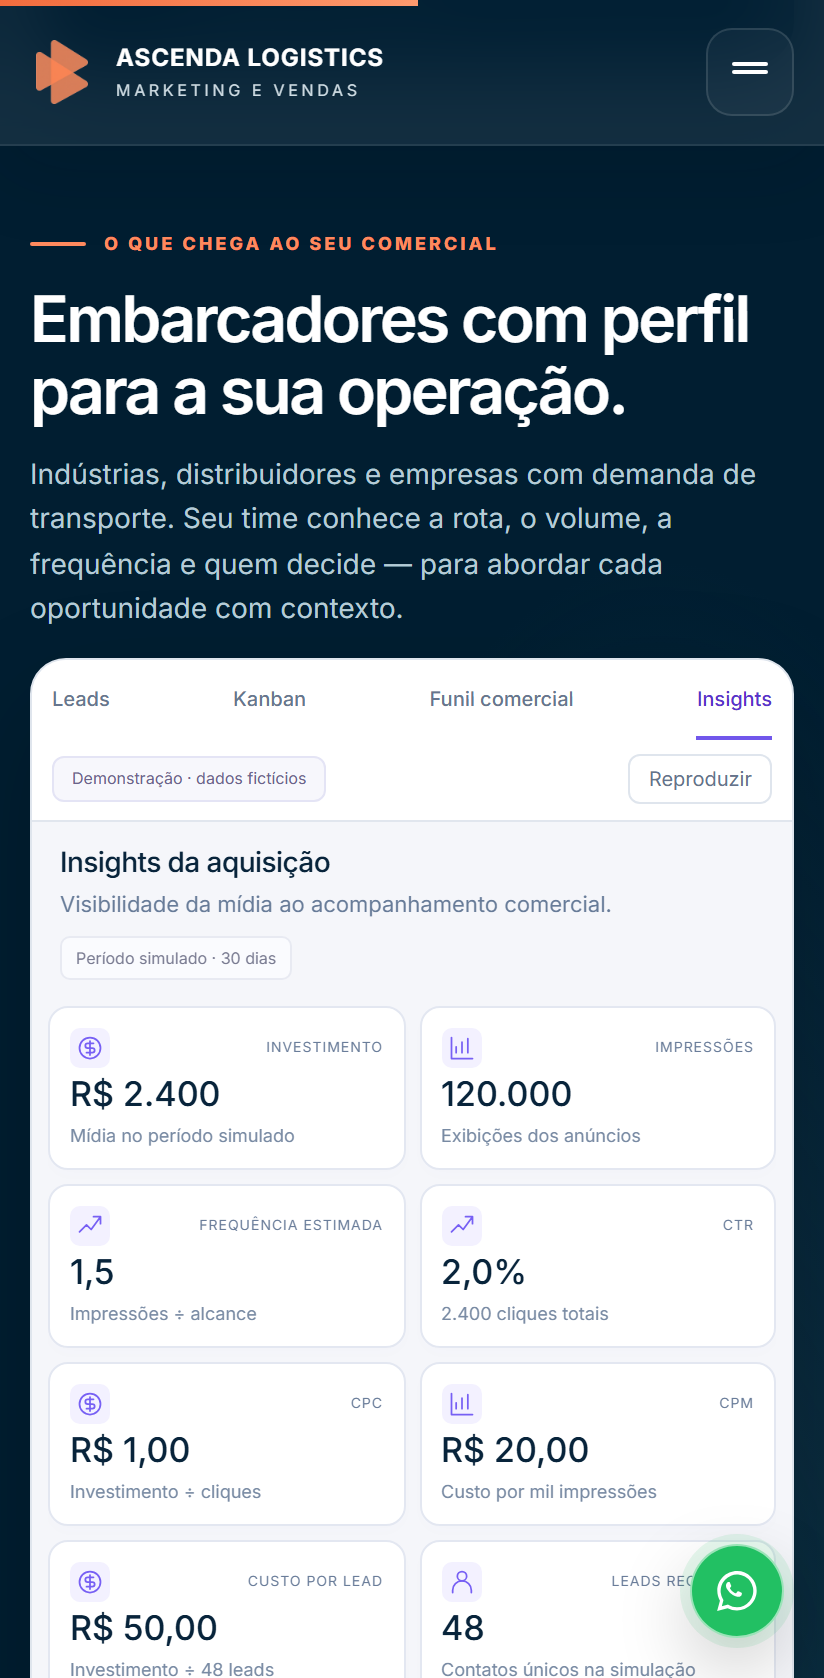
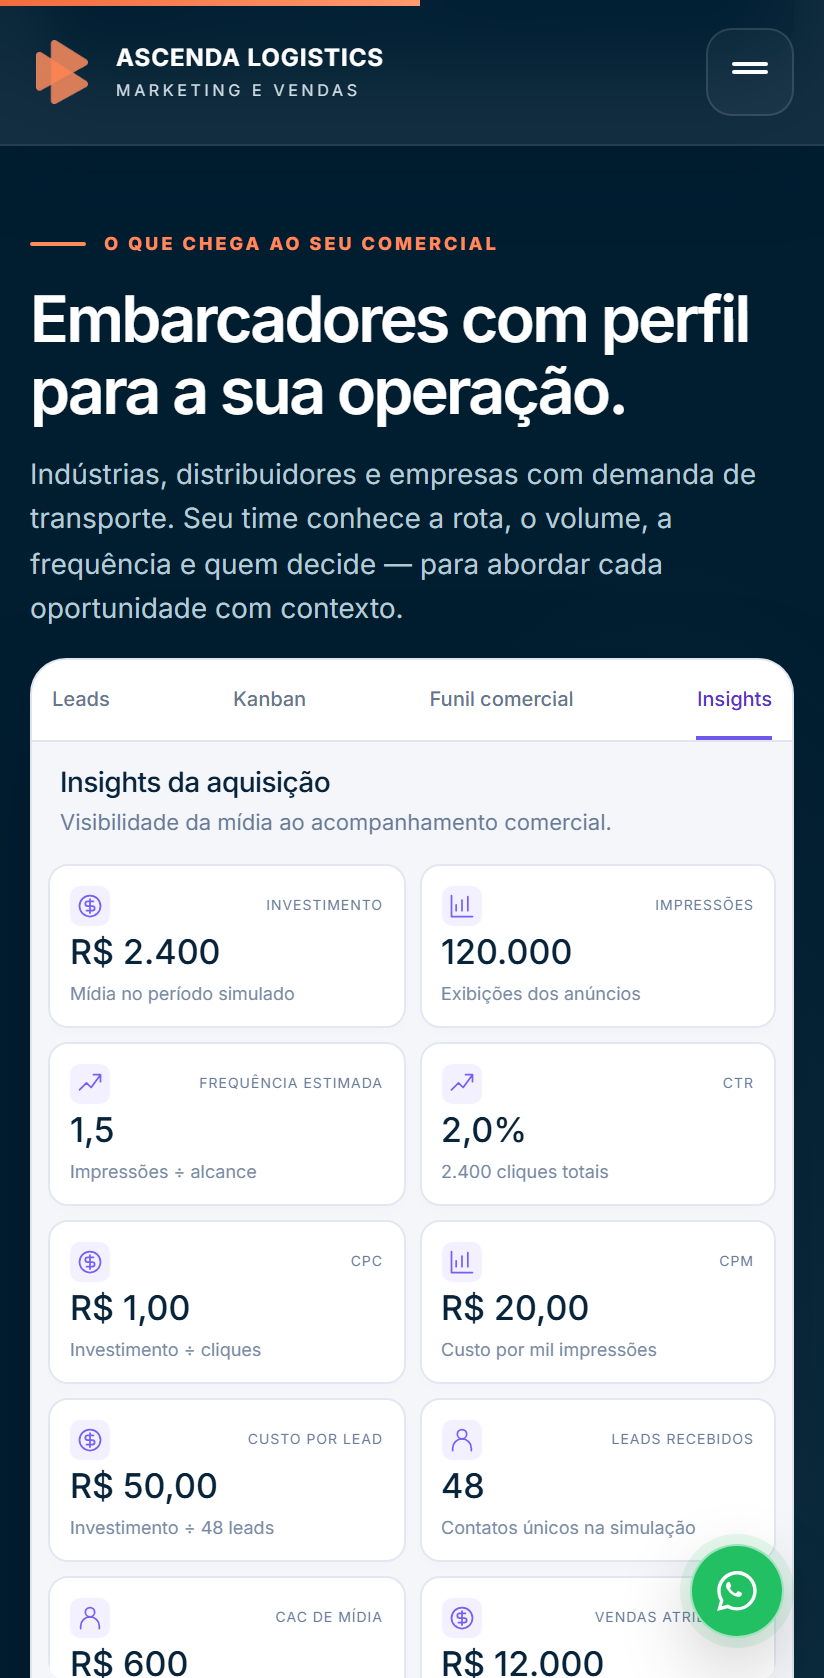
fix: remover badges dos mockups do CRM

diff --git a/assets/js/crm-showcase.js b/assets/js/crm-showcase.js
@@ -96,7 +96,7 @@
     `<svg viewBox="0 0 24 24" aria-hidden="true">${icons[name] || icons.chart}</svg>`;
   const screen = (id, name, content, index) =>
     `<section id="crm-screen-${id}" class="crm-demo" role="group" aria-roledescription="slide" aria-label="${index + 1} de 4: ${name}" ${index ? "hidden" : ""}>${content}</section>`;
-  const leadsScreen = `<div class="crm-demo__screen-heading"><div><h3>Seus embarcadores, em detalhe</h3><p>Conheça a demanda e o contato responsável.</p></div><span class="crm-demo__badge">6 exemplos de leads</span></div>
+  const leadsScreen = `<div class="crm-demo__screen-heading"><div><h3>Seus embarcadores, em detalhe</h3><p>Conheça a demanda e o contato responsável.</p></div></div>
     <div class="crm-demo__table-scroll" tabindex="0" role="region" aria-label="Tabela de leads fictícios; role para ver todas as colunas"><table class="crm-demo__table"><thead><tr><th>Empresa / segmento</th><th>Contato / cargo</th><th>Rota principal</th><th>Volume</th><th>Frequência</th><th>Operação</th></tr></thead><tbody>${leads.map((lead) => `<tr><td><strong>${lead.company}</strong><small>${lead.segment}</small></td><td>${lead.person}<small>${lead.role}</small></td><td>${lead.route}</td><td>${lead.volume}</td><td>${lead.frequency}</td><td><span class="crm-demo__operation">${lead.operation}</span></td></tr>`).join("")}</tbody></table></div>`;
   const stages = [
     "Novo lead",
@@ -112,7 +112,7 @@
     "Realizar reunião",
     "Acompanhar proposta",
   ];
-  const kanbanScreen = `<div class="crm-demo__screen-heading"><div><h3>Cada oportunidade, no próximo passo</h3><p>Da entrada do lead à negociação, com contexto.</p></div><span class="crm-demo__badge">6 exemplos em acompanhamento</span></div>
+  const kanbanScreen = `<div class="crm-demo__screen-heading"><div><h3>Cada oportunidade, no próximo passo</h3><p>Da entrada do lead à negociação, com contexto.</p></div></div>
     <div class="crm-demo__board" tabindex="0" role="region" aria-label="Kanban demonstrativo; role para ver todas as etapas">${stages
       .map(
         (stage, index) =>
@@ -127,7 +127,7 @@
       .join("")}</div>`;
   const funnelStages = [...stages, "Ganho"];
   const counts = [48, 36, 24, 12, 8, 4];
-  const funnelScreen = `<div class="crm-demo__screen-heading"><div><h3>Funil comercial</h3><p>Avanço acumulado das oportunidades em cada etapa.</p></div><span class="crm-demo__badge">Período simulado · 30 dias</span></div><div class="crm-demo__funnel-layout"><svg class="crm-demo__funnel" viewBox="0 0 380 310" role="img" aria-label="Funil ilustrativo: 48 leads recebidos e 4 ganhos na simulação">${counts
+  const funnelScreen = `<div class="crm-demo__screen-heading"><div><h3>Funil comercial</h3><p>Avanço acumulado das oportunidades em cada etapa.</p></div></div><div class="crm-demo__funnel-layout"><svg class="crm-demo__funnel" viewBox="0 0 380 310" role="img" aria-label="Funil ilustrativo: 48 leads recebidos e 4 ganhos na simulação">${counts
     .map((_count, i) => {
       const inset = i * 25;
       const y = i * 51;
@@ -154,7 +154,7 @@
     ["CLIQUES NO LINK", "1.200", "1,0% das impressões", "trend"],
     ["CONVERSÃO COMERCIAL", "8,3%", "4 ganhos em 48 leads", "chart"],
   ];
-  const insightsScreen = `<div class="crm-demo__screen-heading"><div><h3>Insights da aquisição</h3><p>Visibilidade da mídia ao acompanhamento comercial.</p></div><span class="crm-demo__badge">Período simulado · 30 dias</span></div><div class="crm-demo__metrics">${metrics.map(([label, value, detail, symbol]) => `<article><div>${icon(symbol)}<h4>${label}</h4></div><strong>${value}</strong><p>${detail}</p></article>`).join("")}</div>`;
+  const insightsScreen = `<div class="crm-demo__screen-heading"><div><h3>Insights da aquisição</h3><p>Visibilidade da mídia ao acompanhamento comercial.</p></div></div><div class="crm-demo__metrics">${metrics.map(([label, value, detail, symbol]) => `<article><div>${icon(symbol)}<h4>${label}</h4></div><strong>${value}</strong><p>${detail}</p></article>`).join("")}</div>`;
   const names = ["Leads", "Kanban", "Funil comercial", "Insights"];
   carousel.querySelector("[data-crm-screens]").innerHTML = [
     screen("leads", names[0], leadsScreen, 0),
@@ -199,7 +199,7 @@
       !document.hidden &&
       !carousel.contains(document.activeElement);
     if (running) timer = setInterval(() => show(index + 1), 8000);
-    pauseButton.textContent = paused ? "Reproduzir" : "Pausar";
+    pauseButton.textContent = paused ? "▶" : "Ⅱ";
     pauseButton.setAttribute(
       "aria-label",
       paused

diff --git a/assets/css/crm-showcase.css b/assets/css/crm-showcase.css
@@ -7,13 +7,10 @@
 .crm-showcase__heading>p{max-width:1070px;margin:0;color:#b6cbd6;font-size:15px;line-height:1.6}
 .crm-showcase__carousel{border:1px solid #dfe5ed;border-radius:18px;overflow:hidden;background:#f5f6fa;box-shadow:0 24px 60px #0003;color:#08243b}
 .crm-showcase__carousel [hidden]{display:none!important}
-.crm-showcase__playback{display:flex;align-items:center;gap:12px}
-.crm-showcase__demo{padding:4px 9px;border:1px solid #e4e4f5;border-radius:6px;background:#f7f7fc;color:#6b638d;font-size:10px}
 .crm-showcase__navigation{display:flex;justify-content:space-between;align-items:center;gap:12px;padding:0 20px;background:#fff;border-bottom:1px solid #e1e6ee}
 .crm-showcase__tabs{display:flex;gap:24px}
 .crm-showcase__tabs button{padding:12px 0 10px;border:0;border-bottom:2px solid transparent;border-radius:0;background:none;color:#67768e;font-size:12px;font-weight:500;white-space:nowrap}
 .crm-showcase__tabs button[aria-pressed=true]{border-color:#7157eb;color:#6246db}
-.crm-showcase__pause{border:1px solid #dfe5ed;border-radius:6px;padding:4px 9px;background:#fff;color:#65738c;font-size:10px}
 .crm-showcase button:focus-visible,.crm-showcase [tabindex]:focus-visible{outline:2px solid #886aff;outline-offset:-2px}
 .crm-showcase button:hover{color:#5932cb}
 .crm-showcase__screens{height:354px;padding:12px}
@@ -21,7 +18,6 @@
 .crm-demo__screen-heading{display:flex;align-items:center;justify-content:space-between;gap:14px;margin-bottom:14px}
 .crm-demo__screen-heading h3{font-size:15px;line-height:1.3;font-weight:500;letter-spacing:-.02em;margin:0 0 4px}
 .crm-demo__screen-heading p{font-size:11px;color:#677b98;margin:0;line-height:1.4}
-.crm-demo__badge{flex-shrink:0;font-size:9px;color:#797b91;border:1px solid #e8eaf2;border-radius:5px;padding:4px 7px;background:#fafbfe}
 .crm-demo svg{width:17px;height:17px;fill:none;stroke:currentColor;stroke-width:1.5;stroke-linecap:round;stroke-linejoin:round;flex-shrink:0}
 .crm-demo__table-scroll{overflow:auto;max-height:calc(100% - 54px);border:1px solid #e4e8f0;border-radius:9px}
 .crm-demo__table{width:100%;border-collapse:collapse;font-size:11px;line-height:1.3;text-align:left;white-space:nowrap}
@@ -87,7 +83,6 @@
 @media(max-width:600px){
  .crm-showcase{padding:32px 0;scroll-margin-top:73px}.crm-showcase>.container{width:calc(100% - 30px)}
  .crm-showcase__heading h2{font-size:32px;line-height:1.12;text-wrap:initial}.crm-showcase__heading>p{font-size:14px}.crm-showcase__heading .eyebrow{font-size:9px}
- .crm-showcase__playback{padding-bottom:8px;justify-content:space-between;width:100%}.crm-showcase__demo{font-size:8px}
  .crm-showcase__navigation{padding:0 10px;gap:7px;flex-wrap:wrap}.crm-showcase__tabs{gap:16px;width:100%;justify-content:space-between}.crm-showcase__tabs button{font-size:10px}
  .crm-showcase__screens{height:478px;padding:8px}.crm-demo{padding:13px 10px;overflow:auto}.crm-demo__screen-heading{align-items:flex-start;flex-direction:column;gap:8px;margin-bottom:12px}.crm-demo__screen-heading h3{font-size:14px}.crm-demo__screen-heading p{font-size:11px}.crm-demo__badge{font-size:8px}
  .crm-demo__table td{padding-block:13px}.crm-demo__board{height:354px;grid-template-columns:repeat(5,215px)}.crm-demo__lead{padding:14px 12px}.crm-demo__lead h4{font-size:13px}.crm-demo__lead>p,.crm-demo__lead dl>div{font-size:10px}.crm-demo__lead dl>div{grid-template-columns:65px 1fr}.crm-demo__lead-bottom,.crm-demo__lead-bottom small,.crm-demo__next-step{font-size:9px}

diff --git a/index.html b/index.html
@@ -31,7 +31,7 @@
 <link rel="preconnect" href="https://fonts.gstatic.com" crossorigin>
 <link href="https://fonts.googleapis.com/css2?family=Inter:wght@400;500;600;700;800;900&display=swap" rel="stylesheet">
   <link rel="stylesheet" href="/assets/css/styles.css?v=20260902-11">
-<link rel="stylesheet" href="/assets/css/crm-showcase.css?v=20260905-1">
+<link rel="stylesheet" href="/assets/css/crm-showcase.css?v=20260905-3">
 <script>
 document.documentElement.classList.add('js');
 </script>
@@ -485,13 +485,12 @@ document.documentElement.classList.add('js');
           <button type="button" data-crm-tab="2" aria-pressed="false" aria-controls="crm-screen-funnel">Funil comercial</button>
           <button type="button" data-crm-tab="3" aria-pressed="false" aria-controls="crm-screen-insights">Insights</button>
         </div>
-        <div class="crm-showcase__playback"><span class="crm-showcase__demo">Demonstração · dados fictícios</span><button class="crm-showcase__pause" type="button" data-crm-pause aria-label="Pausar alternância automática">Pausar</button></div>
       </div>
       <div class="crm-showcase__screens" data-crm-screens></div>
       <noscript><p class="crm-showcase__fallback">Exemplo fictício: Indústria Aurora — carga fechada, rota SP → PR, 24 t por embarque e frequência semanal. O comercial recebe o contato responsável e acompanha a oportunidade até a negociação.</p></noscript>
       <div class="crm-showcase__footer" hidden>
         <div><strong data-crm-caption>Conheça o embarcador antes do primeiro contato.</strong><p data-crm-description>Segmento, rota, volume e responsável em uma visão organizada.</p></div>
-        <div class="crm-showcase__arrows"><button type="button" data-crm-prev aria-label="Tela anterior">←</button><span data-crm-count>01 / 04</span><button type="button" data-crm-next aria-label="Próxima tela">→</button></div>
+        <div class="crm-showcase__arrows"><button type="button" data-crm-pause aria-label="Pausar alternância automática">Ⅱ</button><button type="button" data-crm-prev aria-label="Tela anterior">←</button><span data-crm-count>01 / 04</span><button type="button" data-crm-next aria-label="Próxima tela">→</button></div>
       </div>
       <span class="crm-showcase__sr" data-crm-announcement aria-live="polite" aria-atomic="true"></span>
     </div>
@@ -623,5 +622,5 @@ document.documentElement.classList.add('js');
 <script src="/assets/js/config.js"></script>
 <script src="/assets/js/observability.js" defer></script>
 <script src="/assets/js/main.js" defer></script>
-<script src="/assets/js/crm-showcase.js?v=20260905-1" defer></script>
+<script src="/assets/js/crm-showcase.js?v=20260905-3" defer></script>
 </body></html>
